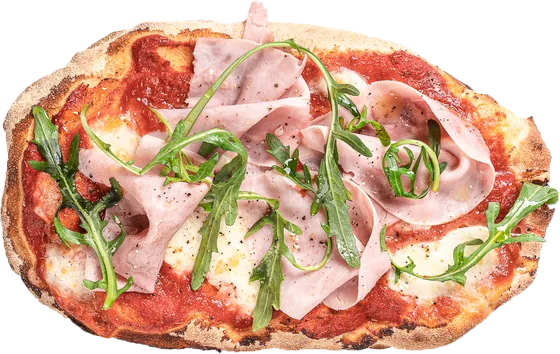
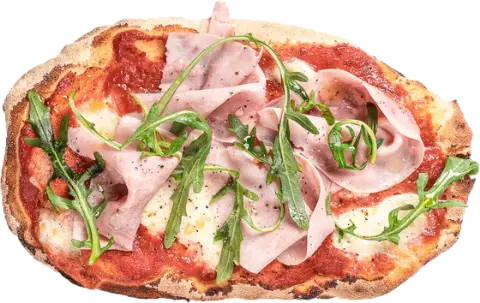
fix: review findings for the storefront
- chosen pickup time is never swapped silently; warn and stop the tap
- keyboard focus kept on tray +/-; announcements spoken inside the sheet
- font preloads match the CSS URLs (no double download)
- send blocked while availability is re-checked (4 s timeout), price
  changes announced, removed products disabled on the page
- blocked Invia stays focusable and points at its reason
- photos recompressed (932 KB -> 555 KB) and the home page gzipped

Changed region(s): [[0.9375, 0.5644, 0.9688, 0.5941], [0.125, 0.5941, 0.1562, 0.6238]]

diff --git a/public/app.js b/public/app.js
@@ -7,8 +7,9 @@
    ------------------------------------------------------------------ */
 
 import { statoApertura, orariRitiro, testoStato } from "./lib/orari.js";
-import { componiMessaggio, linkWhatsApp, euro } from "./lib/whatsapp.js";
+import { componiMessaggio, linkWhatsApp, euro, pulisci } from "./lib/whatsapp.js";
 import { escapeHtml as e } from "./lib/escape.js";
+import { etichetteAllergeni } from "./lib/allergeni.js";
 import "./movimento.js";
 
 const $ = (s, dentro = document) => dentro.querySelector(s);
@@ -62,7 +63,8 @@ const totale = () => righe().reduce((a, r) => a + r.quantita * r.prezzo_finale, 
 const contaPezzi = n => `${n} ${n === 1 ? "pezzo" : "pezzi"}`;
 
 function annuncia(testo) {
-  const zona = $("#annunci");
+  // con un foglio aperto il resto della pagina è inerte: si parla da dentro il foglio
+  const zona = foglio.open ? $("#annunci-vassoio") : $("#annunci");
   zona.textContent = "";
   requestAnimationFrame(() => { zona.textContent = testo; });
 }
@@ -90,6 +92,16 @@ function cambia(id, delta, da) {
 
 function aggiornaSchede() {
   for (const scheda of $$(".scheda")) {
+    // un prodotto tolto o finito dopo il caricamento della pagina non si può più aggiungere
+    const p = prodotti[scheda.dataset.id];
+    if ((!p || p.finito) && !scheda.classList.contains("finito")) {
+      scheda.classList.add("finito");
+      $(".piu", scheda).disabled = true;
+      const etichetta = document.createElement("span");
+      etichetta.className = "etichetta-finito";
+      etichetta.textContent = p ? "Finito per oggi" : "Non disponibile";
+      $(".scheda-media", scheda).after(etichetta);
+    }
     const q = vassoio[scheda.dataset.id] || 0;
     let segno = $(".quanti", scheda);
     if (q && !segno) {
@@ -115,6 +127,9 @@ function aggiornaBarra() {
 
 function disegnaRighe() {
   const lista = $("#righe-vassoio");
+  // ricostruire la lista distrugge il pulsante appena premuto: si ricorda e si rimette il focus
+  const attivo = document.activeElement?.closest?.("#righe-vassoio li[data-id] button");
+  const ricorda = attivo && { id: attivo.closest("li").dataset.id, piu: attivo.hasAttribute("data-piu") };
   lista.innerHTML = pezzi()
     ? righe().map(r => `<li data-id="${e(r.id)}">
       <span class="nome">${e(r.nome)}<small>${e(euro(r.prezzo_finale))} l'uno</small></span>
@@ -125,6 +140,11 @@ function disegnaRighe() {
       </span></li>`).join("")
     : '<li class="vuoto">Il vassoio è vuoto: aggiungi qualcosa dal menù.</li>';
   $("#totale-vassoio").textContent = euro(totale());
+  if (ricorda) {
+    const riga = $(`li[data-id="${CSS.escape(ricorda.id)}"]`, lista);
+    const bersaglio = riga ? $(ricorda.piu ? "[data-piu]" : "[data-meno]", riga) : ($("li[data-id] [data-meno]", lista) || campoNome);
+    (bersaglio?.disabled ? $("[data-meno]", riga) : bersaglio)?.focus();
+  }
 }
 
 function aggiornaTutto() {
@@ -142,18 +162,37 @@ function fasce() {
   });
 }
 
+/* L'elenco si ricostruisce solo quando cambia davvero (altrimenti il
+   selettore aperto sul telefono si chiuderebbe ogni minuto). Se l'orario
+   scelto non c'è più, non lo si sostituisce in silenzio: si avvisa e il
+   prossimo tocco su Invia si ferma finché lo studente non conferma. */
+const SCADUTA = "L'orario che avevi scelto è passato: controlla quello nuovo e tocca di nuovo Invia.";
+let sceltaScaduta = false;
+
 function popolaOrari() {
   const scelta = campoOra.value;
   const elenco = fasce();
-  campoOra.innerHTML = elenco.map(o => `<option value="${o}">${o}</option>`).join("");
-  if (elenco.includes(scelta)) campoOra.value = scelta;
+  const chiave = elenco.join(",");
+  if (campoOra.dataset.elenco !== chiave) {
+    campoOra.innerHTML = elenco.map(o => `<option value="${o}">${o}</option>`).join("");
+    campoOra.dataset.elenco = chiave;
+    if (elenco.includes(scelta)) campoOra.value = scelta;
+    else if (scelta && elenco.length) { sceltaScaduta = true; avvisa(SCADUTA); }
+  }
   campoOra.disabled = elenco.length === 0;
-  return { elenco, scaduta: !!scelta && !elenco.includes(scelta) };
+  return { elenco };
 }
+
+campoOra.addEventListener("change", () => {
+  sceltaScaduta = false;
+  if ($("#avviso-vassoio").textContent === SCADUTA) avvisa("");
+});
 
 /* Si può ordinare anche prima dell'apertura, per un orario di oggi.
    Non si può con ordini sospesi, nei giorni di chiusura o senza orari. */
+let verificando = false;
 function motivoBlocco(elenco) {
+  if (verificando) return "Controllo cosa è ancora disponibile…";
   if (imp.ordini_attivi !== "1") return "Ordini sospesi in questo momento.";
   if (elenco.length) return null;
   const stato = statoApertura({ orari, chiusure, now: adesso() });
@@ -175,8 +214,9 @@ function aggiornaInvio() {
   m.textContent = motivo || "";
   m.hidden = !motivo;
   if (motivo) {
+    // resta un link con href: raggiungibile da tastiera, e il tocco viene fermato dal gestore
     invia.setAttribute("aria-disabled", "true");
-    invia.removeAttribute("href");
+    invia.href = "#";
   } else {
     invia.removeAttribute("aria-disabled");
     invia.href = linkWhatsApp(imp.whatsapp, messaggio());
@@ -192,17 +232,17 @@ function erroreNome(testo) {
 
 invia.addEventListener("click", evento => {
   // ricontrollo al momento del tocco: il foglio può essere rimasto aperto a lungo
-  const { scaduta } = popolaOrari();
   aggiornaInvio();
   if (invia.getAttribute("aria-disabled") === "true") { evento.preventDefault(); return; }
-  if (scaduta) {
+  if (sceltaScaduta) {
     evento.preventDefault();
-    avvisa("L'orario che avevi scelto è passato: controlla quello nuovo e tocca di nuovo Invia.");
+    sceltaScaduta = false;   // il secondo tocco, dopo aver visto l'avviso, invia
     campoOra.focus();
     return;
   }
   const nome = campoNome.value.trim();
-  if ([...nome].length < 2) {
+  // conta il nome come arriverà nel messaggio, senza i simboli che WhatsApp toglie
+  if ([...pulisci(nome, 40)].length < 2) {
     evento.preventDefault();
     erroreNome("Scrivi il nome per il ritiro.");
     campoNome.focus();
@@ -230,30 +270,42 @@ $("#svuota-no").addEventListener("click", () => { $("#chiedi-svuota").hidden = t
 
 /* ---------- apertura del vassoio ---------- */
 
+/* Rilegge il menù prima di lasciar inviare: un prodotto può essere finito o
+   cambiato prezzo da quando la pagina è stata aperta. Massimo 4 secondi,
+   poi si va avanti con i dati della pagina. true se un prezzo è cambiato. */
 async function aggiornaDalServer() {
   try {
-    const r = await fetch("api/menu", { headers: { Accept: "application/json" }, cache: "no-store" });
-    if (!r.ok) return;
+    const segnale = AbortSignal.timeout ? AbortSignal.timeout(4000) : undefined;
+    const r = await fetch("api/menu", { headers: { Accept: "application/json" }, cache: "no-store", signal: segnale });
+    if (!r.ok) return false;
     const m = await r.json();
     orari = m.orari;
     chiusure = m.chiusure.map(c => c.data);
     imp = m.impostazioni;
     const nuovi = {};
     for (const c of m.categorie) for (const p of c.prodotti) {
-      nuovi[p.id] = { ...prodotti[p.id], nome: p.nome, categoria: c.nome, prezzo_finale: p.prezzo_finale, finito: p.finito };
+      nuovi[p.id] = {
+        nome: p.nome, categoria: c.nome, descrizione: p.descrizione, prezzo_finale: p.prezzo_finale, finito: p.finito,
+        foto: p.foto, allergeni: etichetteAllergeni(p.allergeni.join(",")), surgelati: p.surgelati
+      };
     }
+    const prezzoCambiato = Object.keys(vassoio).some(id => nuovi[id] && prodotti[id] && nuovi[id].prezzo_finale !== prodotti[id].prezzo_finale);
     prodotti = nuovi;
-  } catch { /* offline: restano i dati della pagina */ }
+    return prezzoCambiato;
+  } catch { return false; /* offline o lento: restano i dati della pagina */ }
 }
 
 async function apriVassoio() {
   $("#chiedi-svuota").hidden = true;
   if (!campoNome.value) { try { campoNome.value = localStorage.getItem("cs-nome") || ""; } catch { /* niente */ } }
+  verificando = true;
   disegnaRighe();
   aggiornaInvio();
   if (!foglio.open) foglio.showModal();
-  await aggiornaDalServer();
+  const prezzoCambiato = await aggiornaDalServer();
+  verificando = false;
   if (ripulisci()) avvisa(TOLTI);
+  else if (prezzoCambiato) avvisa("Alcuni prezzi sono cambiati: il totale è già aggiornato.");
   aggiornaTutto();
 }
 

diff --git a/test/e2e/vetrina.spec.js b/test/e2e/vetrina.spec.js
@@ -121,3 +121,53 @@ test.describe("movimento ridotto", () => {
     await expect(page.locator(".pallino-volo")).toHaveCount(0);
   });
 });
+
+/* ---------- dalla revisione delle fasi 2-3 ---------- */
+
+test("l'orario scelto non cambia di nascosto: se passa, avviso e niente invio", async ({ page }) => {
+  await page.clock.setFixedTime(new Date("2026-10-23T13:00:00+02:00"));
+  await page.goto("/");
+  await scheda(page, "sc1").locator(".piu").click();
+  await page.locator("#barra-vassoio").click();
+  await page.fill("#nome-ritiro", "Marta");
+  await page.selectOption("#ora-ritiro", "13:30");
+  await page.clock.setFixedTime(new Date("2026-10-23T13:20:00+02:00"));
+  await page.fill("#note", "x");
+  let aperto = false;
+  page.on("popup", () => { aperto = true; });
+  await page.locator("#invia-whatsapp").click();
+  await expect(page.locator("#avviso-vassoio")).toHaveText(/L'orario che avevi scelto è passato/);
+  expect(aperto).toBe(false);
+});
+
+test("il + del vassoio da tastiera tiene il focus", async ({ page }) => {
+  await page.clock.setFixedTime(VENERDI_MEZZOGIORNO);
+  await page.goto("/");
+  await scheda(page, "sc1").locator(".piu").click();
+  await page.locator("#barra-vassoio").click();
+  const piu = page.locator('#righe-vassoio li[data-id="sc1"] [data-piu]');
+  await piu.focus();
+  await page.keyboard.press("Enter");
+  await expect(page.locator('#righe-vassoio li[data-id="sc1"] output')).toHaveText("2");
+  await expect(page.locator('#righe-vassoio li[data-id="sc1"] [data-piu]')).toBeFocused();
+});
+
+test("un nome fatto solo di simboli non basta", async ({ page }) => {
+  await page.clock.setFixedTime(VENERDI_MEZZOGIORNO);
+  await page.goto("/");
+  await scheda(page, "sc1").locator(".piu").click();
+  await page.locator("#barra-vassoio").click();
+  await page.fill("#nome-ritiro", "**");
+  await page.locator("#invia-whatsapp").click();
+  await expect(page.locator("#errore-nome")).toHaveText("Scrivi il nome per il ritiro.");
+});
+
+test("Invia bloccato resta raggiungibile da tastiera e collegato al motivo", async ({ page }) => {
+  await page.clock.setFixedTime(new Date("2026-10-24T12:00:00+02:00"));
+  await page.goto("/");
+  await scheda(page, "sc1").locator(".piu").click();
+  await page.locator("#barra-vassoio").click();
+  const invia = page.locator("#invia-whatsapp");
+  await expect(invia).toHaveAttribute("href", "#");
+  await expect(invia).toHaveAttribute("aria-describedby", "motivo-blocco");
+});

diff --git a/server/modelli/index.html b/server/modelli/index.html
@@ -6,9 +6,9 @@
 <!--slot:head-meta-->
 <meta name="theme-color" content="#F4F1EA">
 <link rel="icon" href="{{asset:img/logo-blu.png}}">
-<link rel="preload" href="{{asset:fonts/bricolage-800.woff2}}" as="font" type="font/woff2" crossorigin>
-<link rel="preload" href="{{asset:fonts/dmsans-400.woff2}}" as="font" type="font/woff2" crossorigin>
 <link rel="preload" href="{{asset:img/p-hamburger.webp}}" as="image" fetchpriority="high">
+<link rel="preload" href="fonts/bricolage-800.woff2" as="font" type="font/woff2" crossorigin>
+<link rel="preload" href="fonts/dmsans-400.woff2" as="font" type="font/woff2" crossorigin>
 <link rel="stylesheet" href="{{asset:style.css}}">
 <!--slot:jsonld-->
 </head>
@@ -107,7 +107,8 @@
     <button type="button" class="chiudi" data-chiudi aria-label="Chiudi">×</button>
   </div>
   <div class="foglio-corpo">
-    <p class="avviso" id="avviso-vassoio" hidden></p>
+    <p class="avviso" id="avviso-vassoio" role="status" hidden></p>
+    <div class="solo-lettori" id="annunci-vassoio" aria-live="polite"></div>
     <ul class="righe" id="righe-vassoio"></ul>
     <div class="campo">
       <label for="nome-ritiro">Nome per il ritiro</label>
@@ -125,8 +126,8 @@
   </div>
   <div class="foglio-piede">
     <div class="totale-riga"><span>Totale</span><span id="totale-vassoio">0,00 €</span></div>
-    <a class="bottone bottone-giallo" id="invia-whatsapp" href="#" target="_blank" rel="noopener">Invia su WhatsApp</a>
-    <p class="motivo" id="motivo-blocco" hidden></p>
+    <a class="bottone bottone-giallo" id="invia-whatsapp" href="#" target="_blank" rel="noopener" aria-describedby="motivo-blocco">Invia su WhatsApp</a>
+    <p class="motivo" id="motivo-blocco" role="status" hidden></p>
     <div id="chiedi-svuota" hidden>
       <p class="nota-piccola">Messaggio pronto su WhatsApp — svuoto il vassoio?</p>
       <div class="chiedi">

diff --git a/server/rotte/pubbliche.js b/server/rotte/pubbliche.js
@@ -1,5 +1,6 @@
 import express from "express";
 import path from "node:path";
+import zlib from "node:zlib";
 import { leggiMenu, leggiOrari, leggiChiusure, leggiImpostazioni } from "../db.js";
 import { NOME_VALIDO, TIPI_MIME } from "../foto.js";
 import { oraRoma } from "../../public/lib/orari.js";
@@ -7,8 +8,16 @@ import { oraRoma } from "../../public/lib/orari.js";
 export function rottePubbliche({ db, now, cartellaFoto, render }) {
   const r = express.Router();
 
+  /* La pagina si comprime qui (circa 60 KB → 12 KB): in produzione Caddy
+     lascia stare ciò che è già compresso, e senza Caddy (tunnel, telefono)
+     la pagina arriva comunque leggera. */
   r.get("/", (req, res) => {
-    res.set("Cache-Control", "no-cache").type("html").send(render.pagina());
+    const html = render.pagina();
+    res.set({ "Cache-Control": "no-cache", Vary: "Accept-Encoding" }).type("html");
+    if (req.acceptsEncodings("gzip") === "gzip") {
+      return res.set("Content-Encoding", "gzip").send(zlib.gzipSync(html, { level: 6 }));
+    }
+    res.send(html);
   });
 
   r.get("/salute", (req, res) => {

diff --git a/test/render.test.js b/test/render.test.js
@@ -175,3 +175,14 @@ test("una modifica dal pannello si vede subito sulla pagina", async () => {
   assert.ok((await (await fetch(p.base + "/")).text()).includes("Appena cambiato"));
   await p.chiudi();
 });
+
+test("la pagina viaggia compressa se il browser lo accetta", async () => {
+  const p = await avviaProva({ now: GIOVEDI });
+  const { request } = await import("node:http");
+  const intestazioni = await new Promise((ok, ko) => {
+    request(p.base + "/", { headers: { "Accept-Encoding": "gzip" } }, r => { r.resume(); ok(r.headers); }).on("error", ko).end();
+  });
+  assert.equal(intestazioni["content-encoding"], "gzip");
+  assert.match(intestazioni.vary, /Accept-Encoding/);
+  await p.chiudi();
+});
